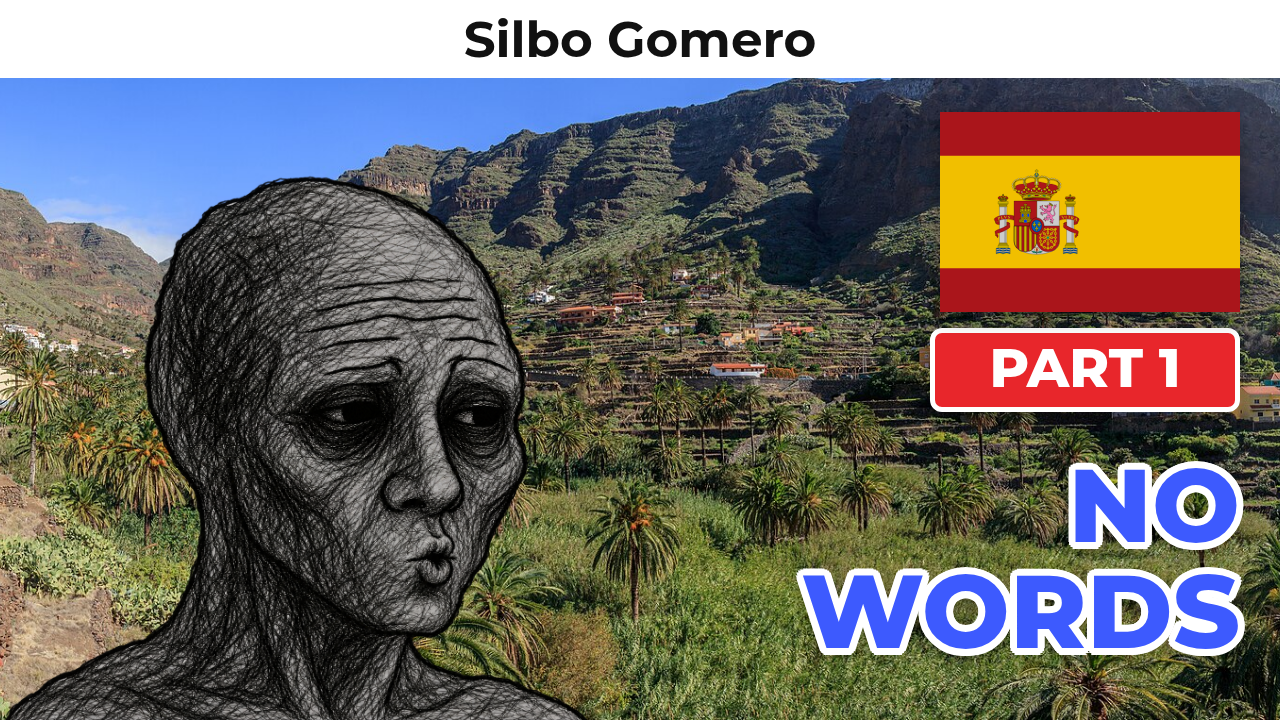
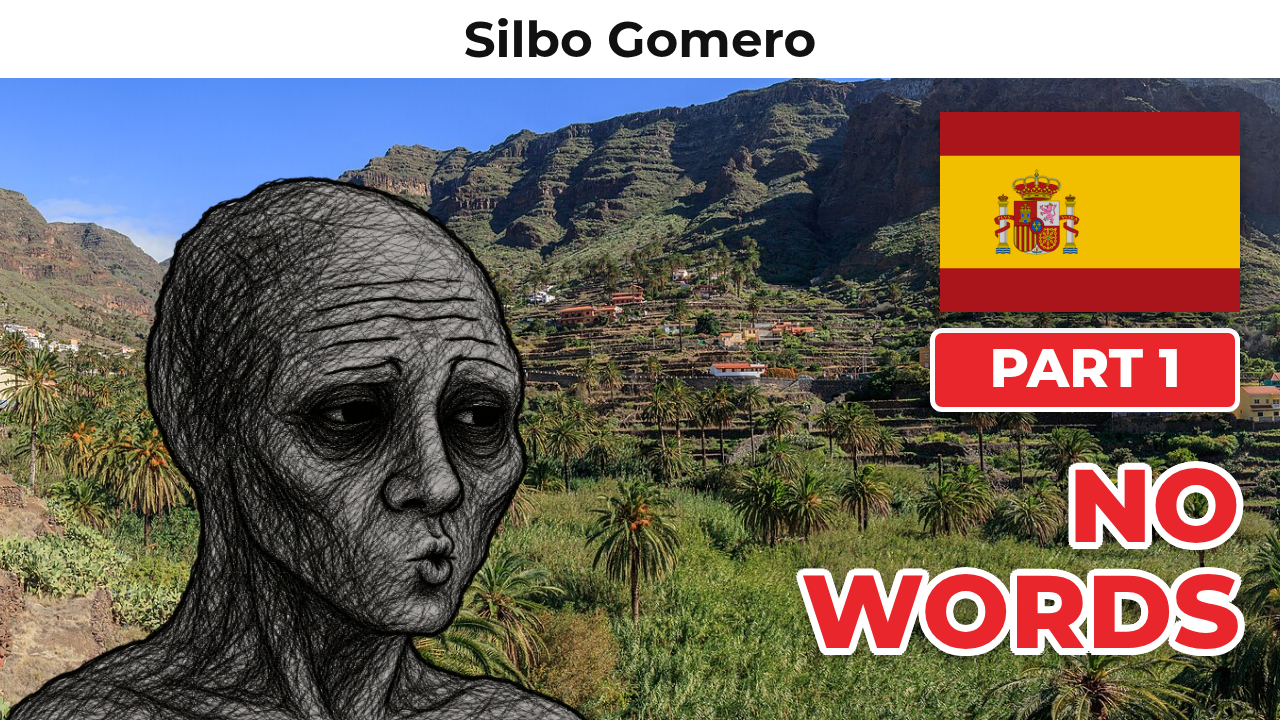
lingo: whistled thumbnail hook back to the channel's red; note the rule
Claude-Session: https://claude.ai/code/session_01JteZbjgJzANfm9zkD8PK4e

Changed region(s): [[0.625, 0.7944, 0.9688, 0.9167], [0.8125, 0.6417, 0.9688, 0.7639]]

diff --git a/CLAUDE.md b/CLAUDE.md
@@ -53,6 +53,7 @@ Owner's channel name: **LingoDude**. Six scripted 1080p videos in the "Nearly Ex
 - Credit every recording (`lingo/out/<video>_credits.txt` → YouTube description).
 - Map-tour videos: `lingo/maptour.mjs` + `lingo/maptour_episodes.mjs` (done: `official`, Countries With the Most Official Languages).
   Saved idea the owner liked, **option 2**: `lingo/ideas/same_language_different_countries.md` (the original country says it first, then each other country's version, then the next language).
+- Thumbnails (`thumb_photo.mjs`): always the channel look: white name strip, photo, Wojak, flag, PART label for series, and the hook in **red** text with a white outline (owner: "keep it"). Never another hook colour.
 - Babies video: `lingo/babycry.mjs` (cries from public YouTube videos the owner is asking permission for; pitch traced with `baby_analyze.py`), Wojak crying babies `wojaks/baby_*.png`.
 
 ## Continue from here
